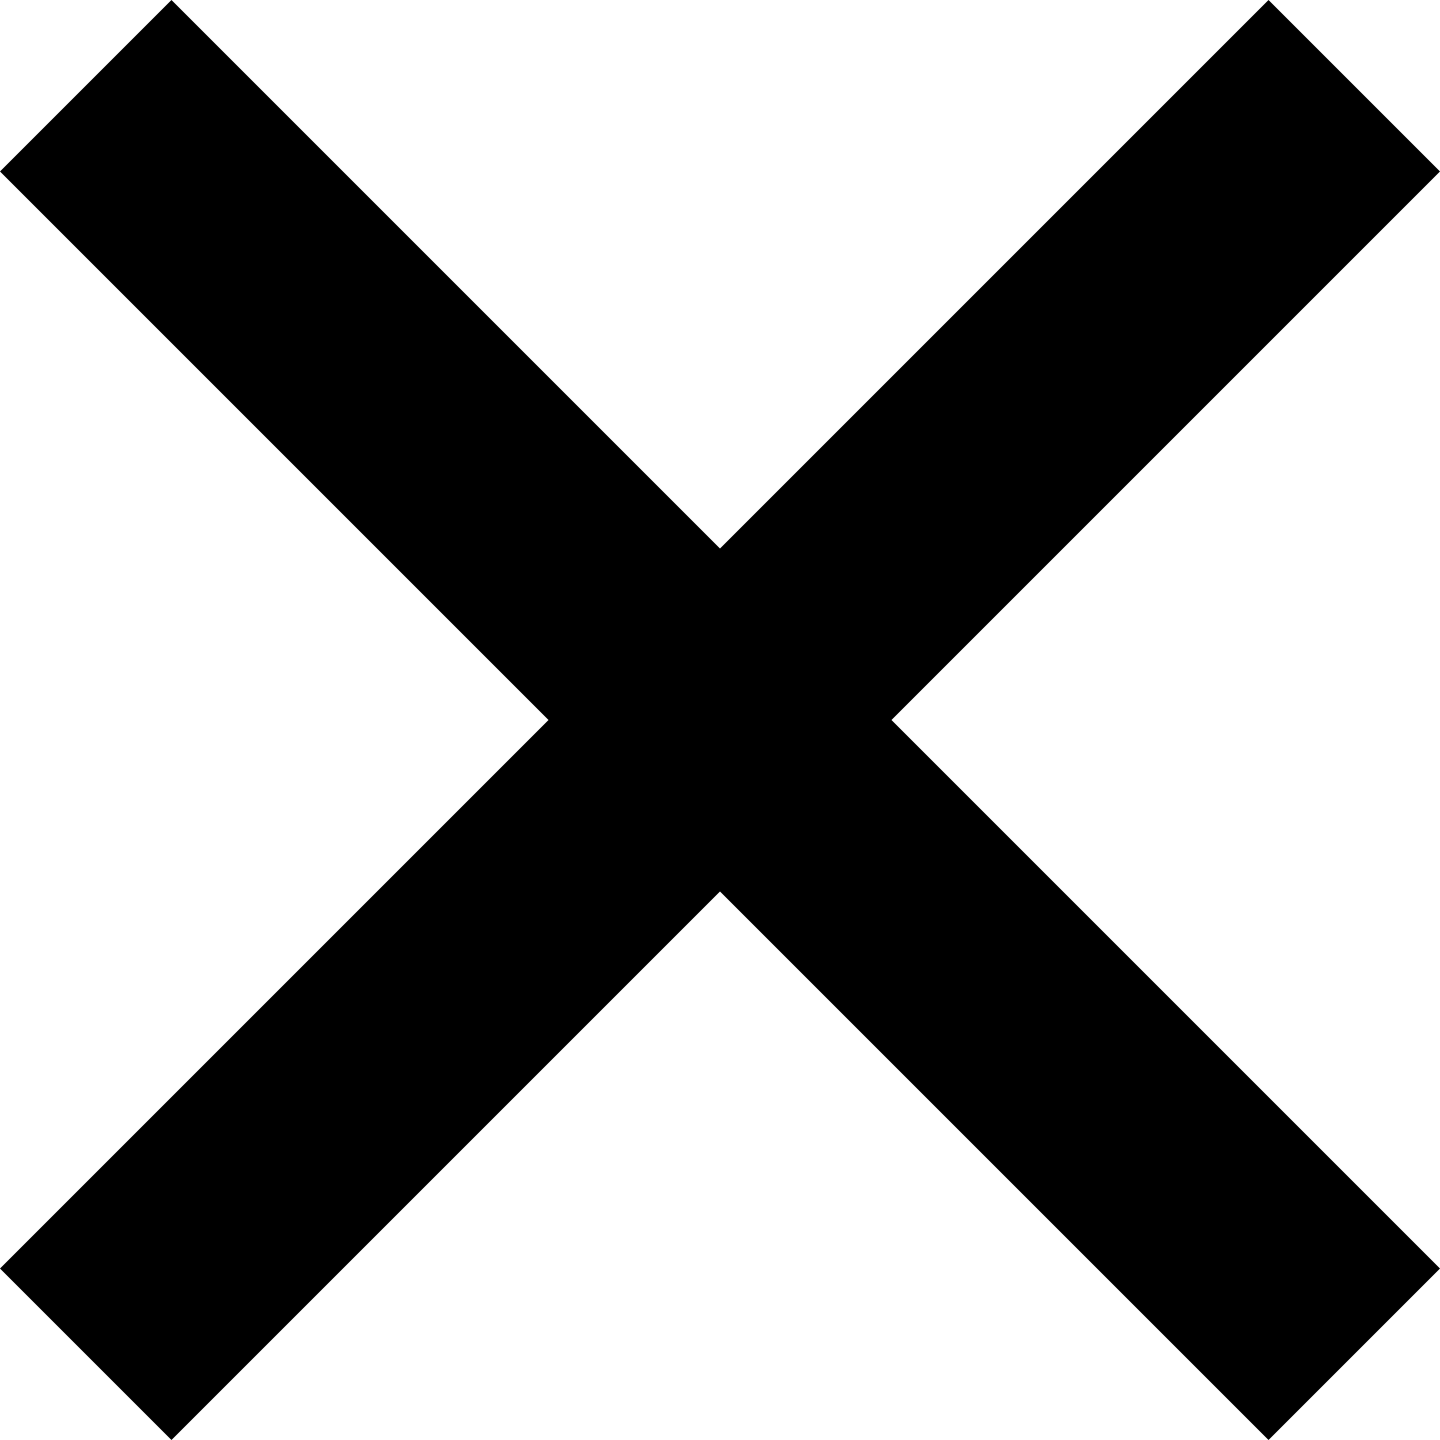
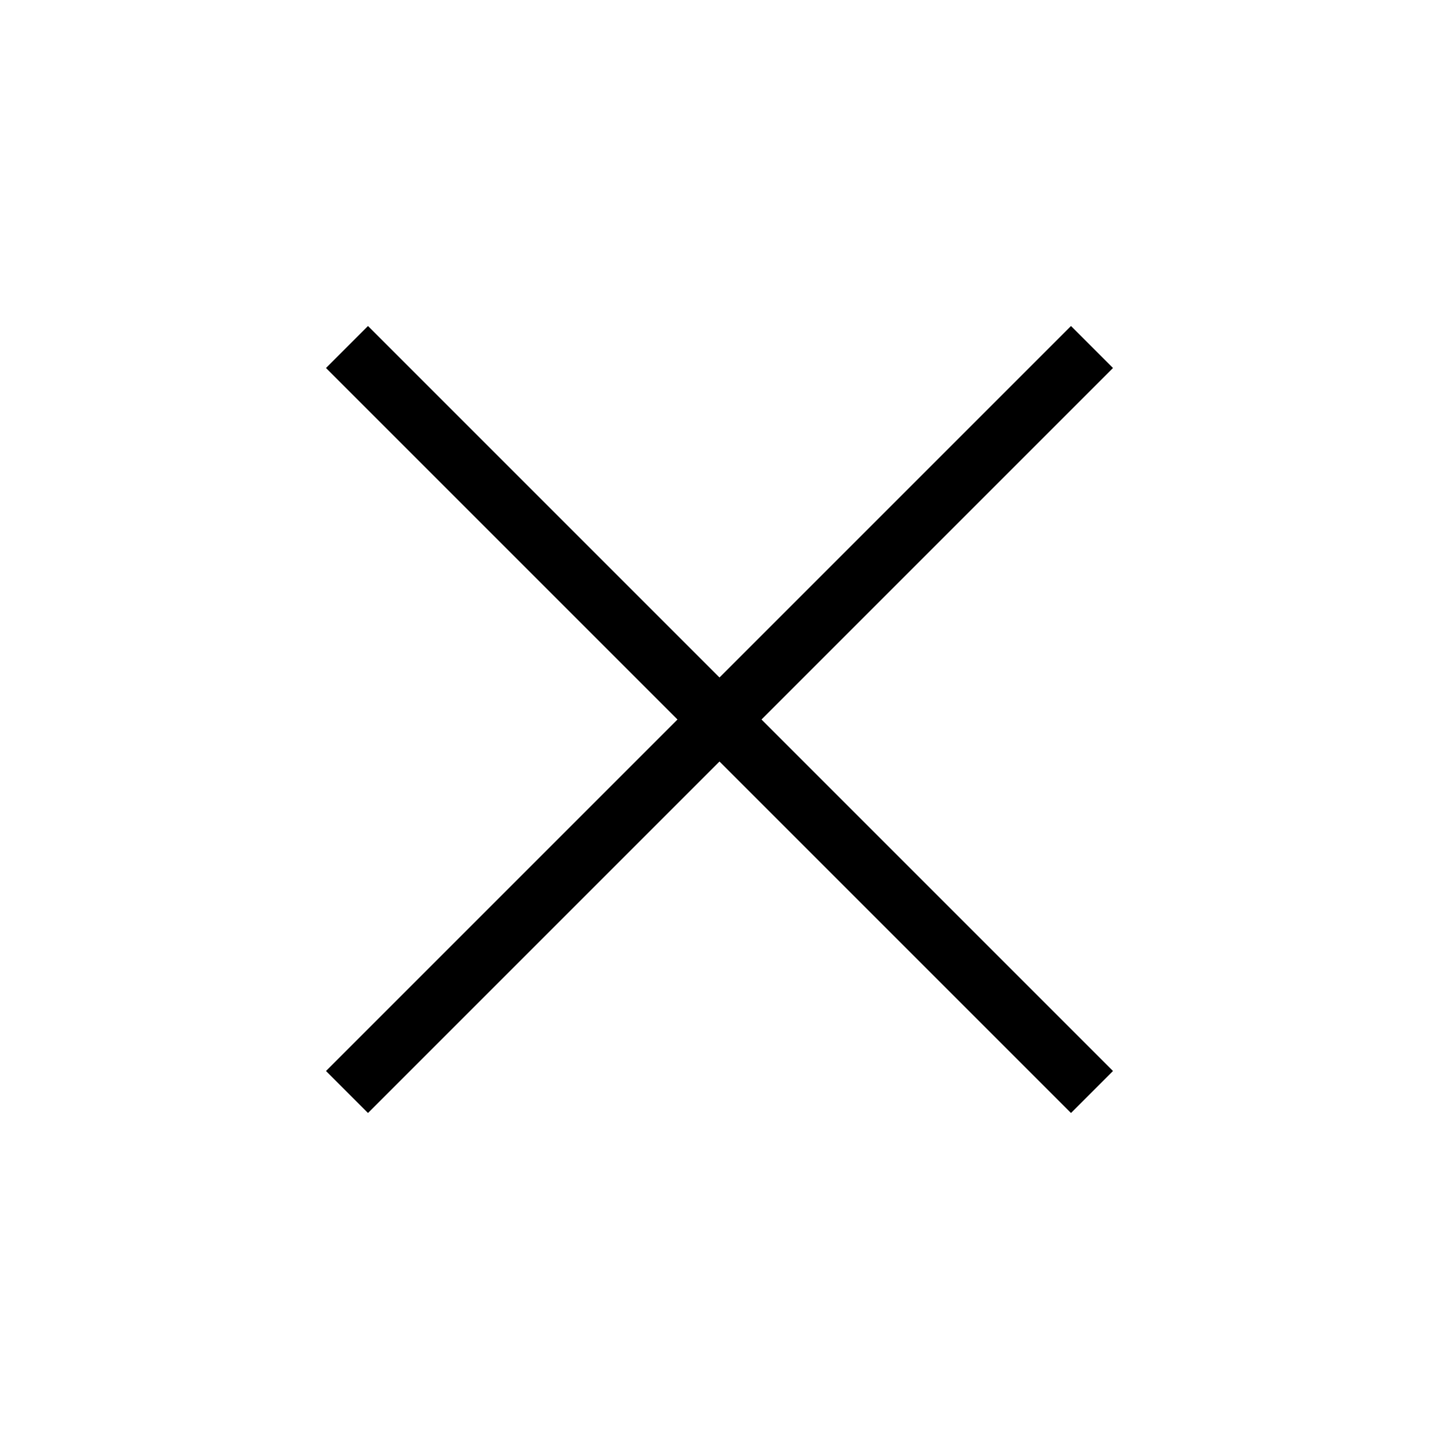
major edits

diff --git a/assets/js/app.js b/assets/js/app.js
@@ -14,15 +14,17 @@ $(function(){
 function addTab(url){
 	allTabs.push(url);
 	$("#tabs div.activeTab").removeClass("activeTab");
-	$("<div class='activeTab'><h1>google.com</h1><span></span></div>").insertAfter($("#tabs div:eq(" + (allTabs.length-2) +")"));
+	$("<div class='activeTab'><h1>New Tab</h1><span></span></div>").insertAfter($("#tabs div:eq(" + (allTabs.length-2) +")"));
 
 	$("#web webview.activeWeb").removeClass("activeWeb");
-	$("<webview class='activeWeb' src='http://google.com'></webview>").insertAfter($("#web webview:eq(" + (allTabs.length-2) +")"));
+	$("<webview class='activeWeb' src='" + url + "'></webview>").insertAfter($("#web webview:eq(" + (allTabs.length-2) +")"));
 
 	$("#topbar input.activeInput").removeClass("activeInput");
 	$('<input class="activeInput" type="text" placeholder="Type URL or Search Google...">').insertAfter($("#topbar input:eq(" + (allTabs.length-2) +")"));
 
-	$("#topbar input.activeInput").focus();
+	if(url == "https://google.com"){
+		$("#topbar input.activeInput").focus();
+	}
 
 	updateEvents();
 	updateDragWidth();
@@ -110,6 +112,12 @@ function updateEvents(){
 		updateDragWidth();
 	});
 
+	$("#web webview").each(function(index){
+		this.addEventListener("new-window",(e) => {
+			addTab(e.url);
+		});
+	});
+
 	$("#topbar input").off("focus");
 	$("#topbar input").on("focus",function(){
 		$(this)[0].select();
@@ -138,4 +146,7 @@ $("#topbar button.back").on("click",function(){
 });
 $("#topbar button.forward").on("click",function(){
 	$("#web webview.activeWeb")[0].goForward();
+});
+$("#topbar button.reload").on("click",function(){
+	$("#web webview.activeWeb")[0].reload();
 });

diff --git a/assets/css/main.css b/assets/css/main.css
@@ -37,7 +37,7 @@ body {
 }
 #topbar input {
 	margin-right: 0;
-	width: calc(100% - 12.5vh - 12px);
+	width: calc(100% - 18.5vh - 12px);
 }
 #topbar input:focus,#topbar button:hover{
 	border-color: var(--main);
@@ -55,6 +55,9 @@ body {
 }
 #topbar button.forward{
 	background-image: url(../img/forwardIcon.png);
+}
+#topbar button.reload{
+	background-image: url(../img/reloadIcon.png);
 }
 
 #tabs {
@@ -93,7 +96,7 @@ section#windowBtns button {
 	background-color: #fff;
 	border: none;
 	border-bottom: 2px solid #ccc;
-	background-size: 2vh;
+	background-size: 2.5vh;
 	background-position: center;
 	background-repeat: no-repeat;
 	transition: background-color 0.2s;
@@ -115,6 +118,7 @@ section#windowBtns button.maximize.maximized{
 	background-image: url(../img/unmaximizeIcon.png);
 }
 section#windowBtns button.close {
+	transition: background-color 0s;
 	background-image: url(../img/closeIcon.png);
 }
 section#windowBtns button.close:hover{
@@ -161,15 +165,14 @@ section#windowBtns button.close:hover{
 	height: 2vh;
 	width: 2vh;
 	border-radius: 50%;
-	background-image: url(../img/closeIcon.png);
-	background-size: 1vh;
-	background-repeat: no-repeat;
+	background-image: url(../img/closeLargeIcon.png);
+	background-size: contain;
 	background-position: center;
 	opacity: 0.8;
 }
 #tabs div span:hover{
 	opacity: 0.6;
-	background-image: url(../img/closeHoverIcon.png);
+	background-image: url(../img/closeLargeHoverIcon.png);
 	background-color: #e00;
 }
 

diff --git a/docs/index.html b/docs/index.html
@@ -85,7 +85,7 @@ header a:hover{
 	<header>
 		<h1>Download Skye</h1>
 		<a href="mac.zip" download>Download Mac (.zip)</a>
-		<!--<a href="windows.zip" download>Download Windows (.zip)</a>-->
+		<a href="windows.zip" download>Download Windows (.zip)</a>
 	</header>
 	<div id="container">
 		<h1>Skye is an Easy To Use, Beautiful Web Browser, for Mac and Windows.</h1>

diff --git a/index.html b/index.html
@@ -21,7 +21,8 @@
 	</section>
 	<div id="topbar">
 		<button class='back'></button
-		><button class='forward'></button>
+		><button class='forward'></button
+		><button class='reload'></button>
 		<input class='activeInput' type="text" placeholder="Type URL or Search Google..." autofocus>
 	</div>
 	<div id="web">

diff --git a/main.js b/main.js
@@ -26,7 +26,7 @@ function createWindow () {
   }))
 
   // Open the DevTools.
-  // mainWindow.webContents.openDevTools()
+  mainWindow.webContents.openDevTools()
 
   // Emitted when the window is closed.
   mainWindow.on('closed', function () {
